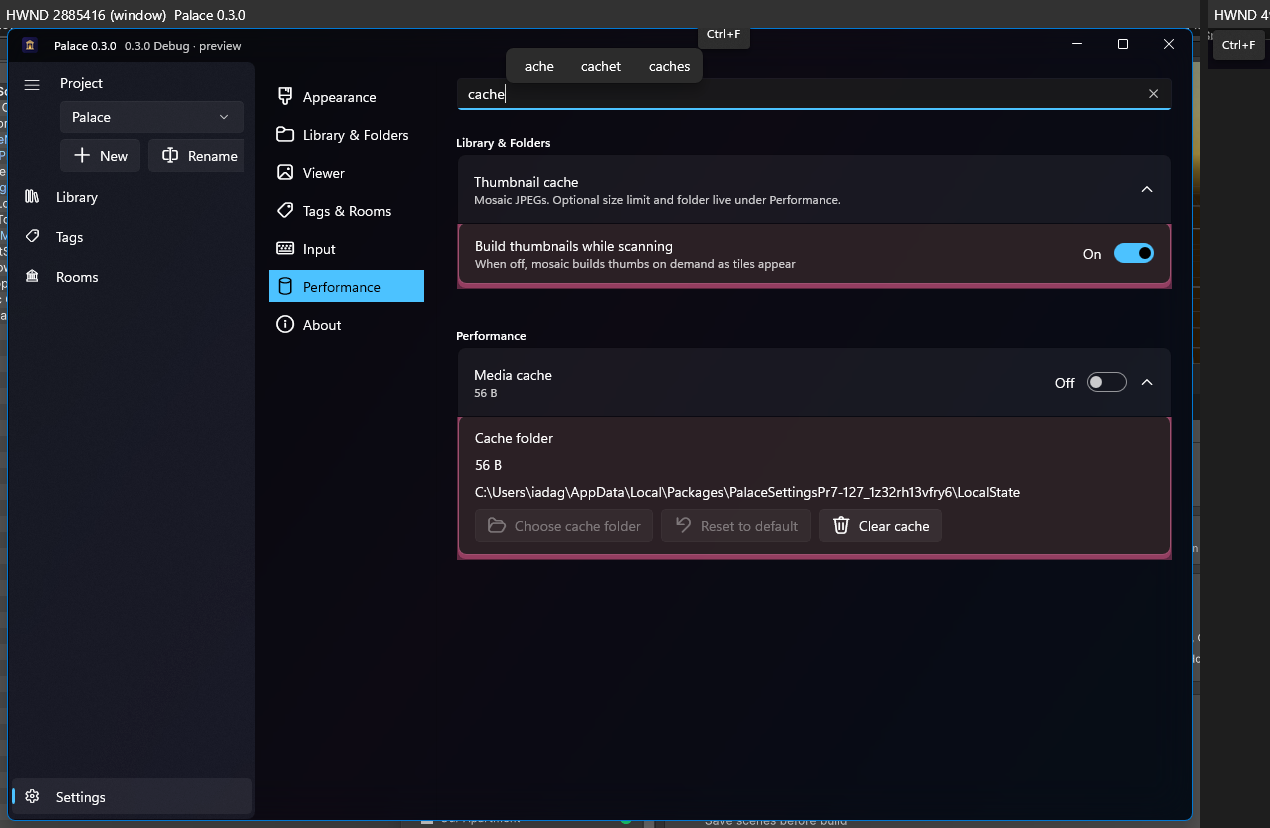
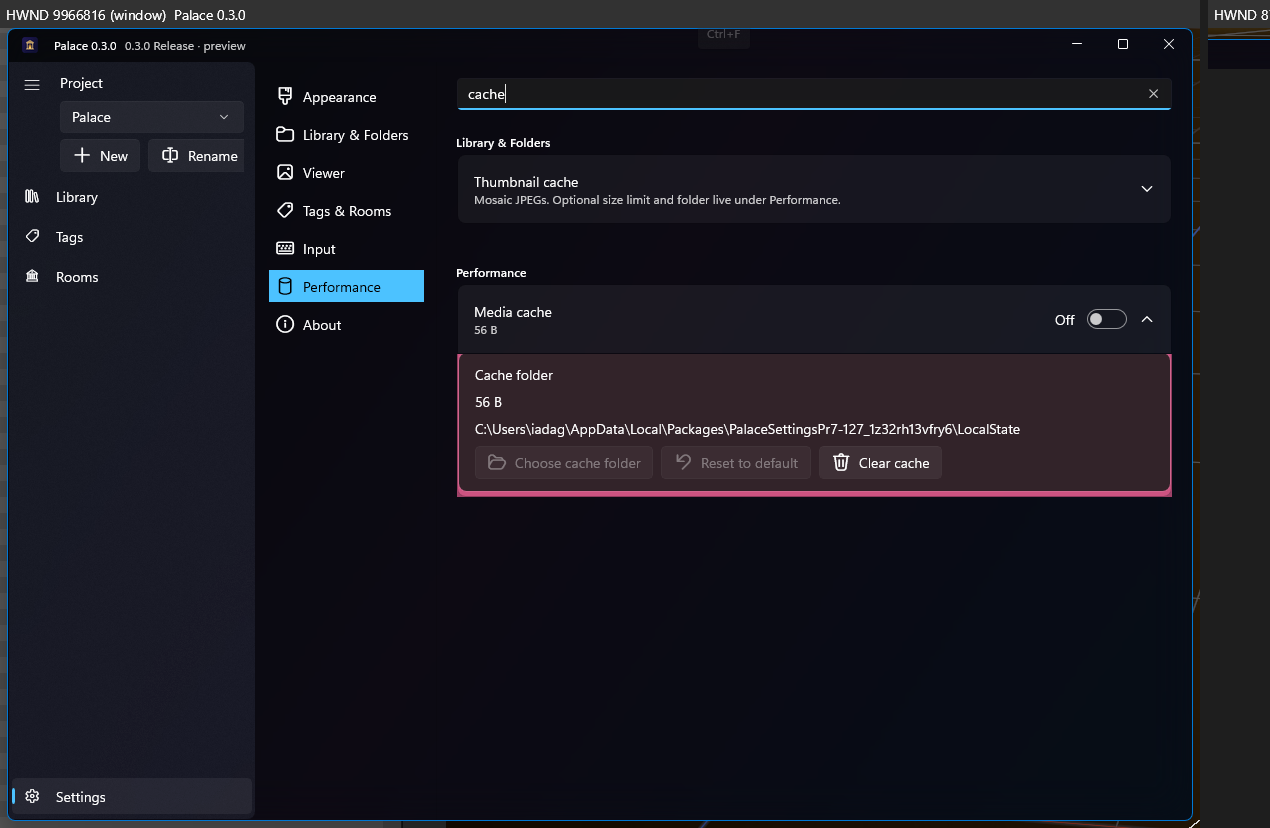
media(settings-pr7): Release x64 MSIX highlight proof for tip 3c5c3e2 (PR #127)

diff --git a/media/settings-pr7/README.md b/media/settings-pr7/README.md
@@ -1,13 +1,14 @@
-# Settings PR #127 retest-fix screenshots (media-only)
+# Settings PR #127 screenshots (media-only)
 
-Packaged Debug tip `51ecff26fa918c4c8156ed41b753cd8766552152` (0.3.0), branch `cursor/settings-polish-030-7641` / PR #127.
+**Release x64 MSIX** tip `3c5c3e21f23f0168a00505b5f19a5043a2a96309` (0.3.0), branch `cursor/settings-polish-030-7641` / PR #127.
 Hosted on this media branch — **not** on the product tip. Pin raw URLs to this media commit SHA.
 
 Test identity: `PalaceSettingsPr7-127` (never C20A7629). Isolated package LocalState + temp SFW / `PALACE_DATA_DIR` only. Captured on Main-Desktop (FenrirDesktop). BelowNormal, `-m:1`.
 
 | File | Caption |
 |------|---------|
-| `01-search-cache-highlight.png` | Settings search "cache": matching SettingsExpander cards (Thumbnail cache + Media cache) show pink/accent highlight (2px border ring + header paint); non-matching cards filtered out. |
-| `03-density-comfortable-vs-compact.png` | Comfortable (left) vs Compact (right), same Appearance section: Compact cards visibly shorter (61px → 45px measured; MinHeight 56→40, padding 16×12→12×4). |
-| `03a-density-comfortable.png` | Appearance Density Comfortable (paired). |
-| `03b-density-compact.png` | Appearance Density Compact (paired). |
+| `01-search-cache-highlight.png` | Settings search "cache" on **Release x64 MSIX**: matching SettingsExpander cards (Thumbnail cache + Media cache) show durable pink/accent highlight; non-matching filtered out. Tip `3c5c3e2`. |
+| `01a-search-cache-0.2s-release.png` | Same search ~0.2s after typing (timing evidence). |
+| `01b-search-cache-3s-release.png` | Same search ~3s after typing (settle / durable). |
+
+Prior Debug density shots may remain below for Comfortable/Compact comparison.
